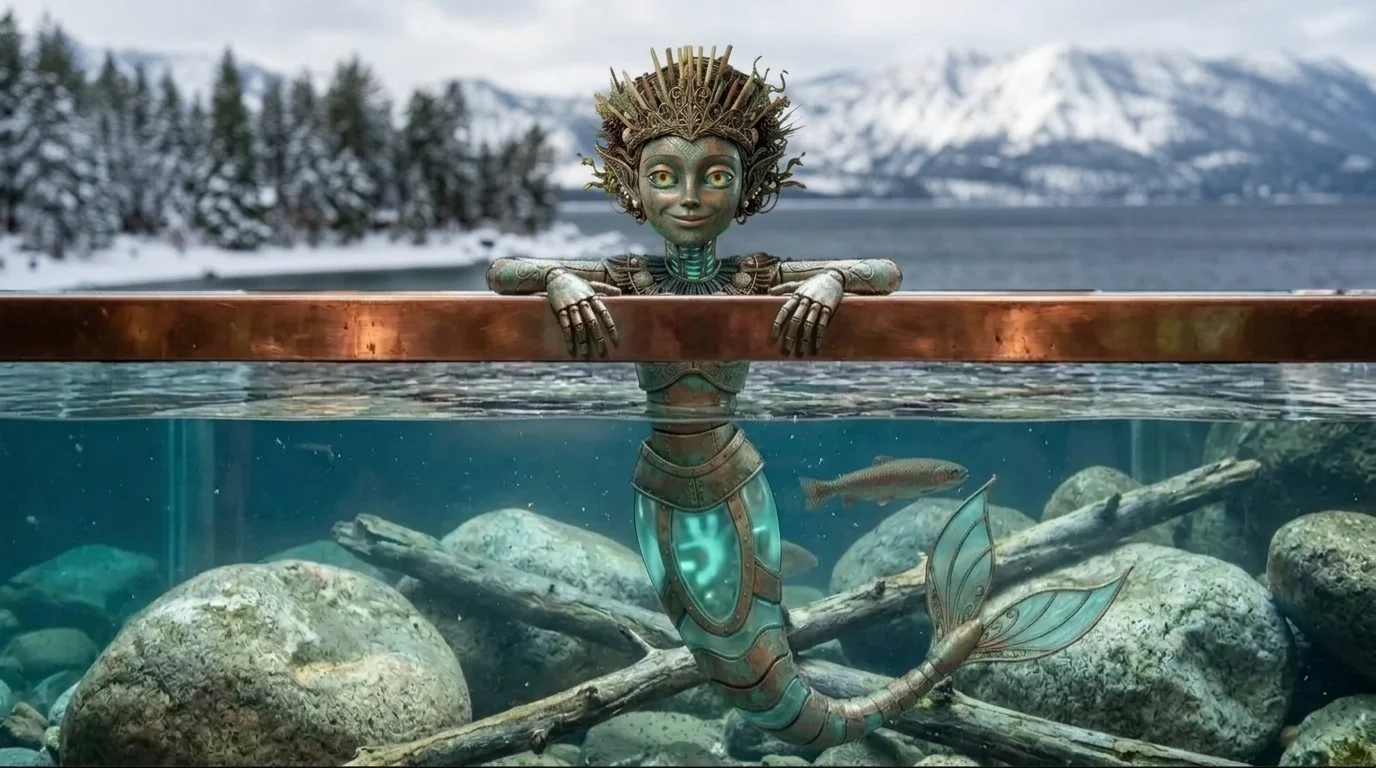
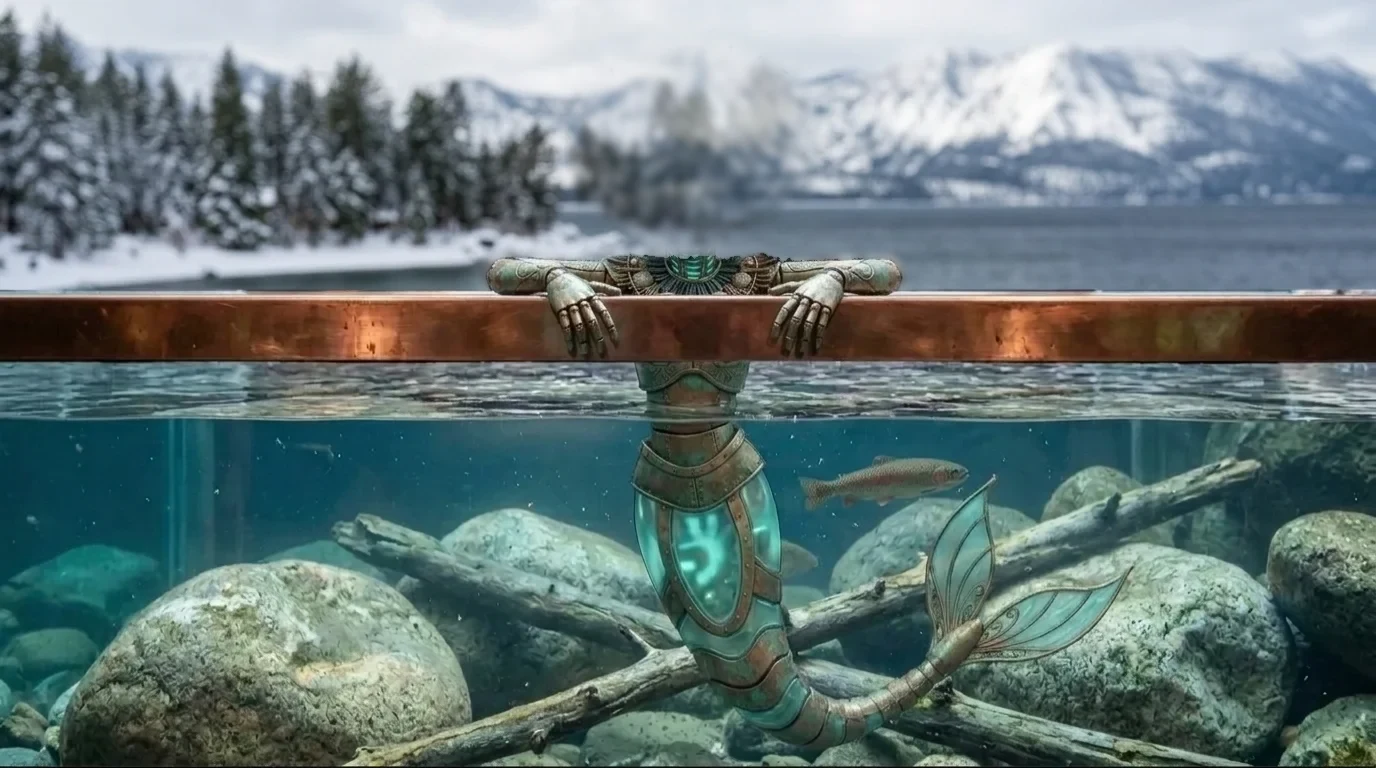
A.L.T.A.'s tank scenes: no copy of her left behind when she dives; her empty template and Christian's prompt (#373)
Christian, Oct 14: when she dives, her head stays on the picture above the water. Her first tank template
had her in it, so 21 scenes made from it did too; her head and shoulders are drawn over the scene only while
she rests.

- Her head taken out of those 21 scenes (the scene mirrored in from both sides, feathered and softened): a
  stopgap until each is remade. time-machine-tank and workshop-with-robots are Christian's clean renders.
- Her tank template is now her empty tank (?v=2 where the Studio links it).
- The prompt, in Christian's layout: the scene on a line of its own, '[ INSERT SCENE ]' when there's none;
  framing in pixels for her 1376 x 768 frame (what matters above the ledge, a calm middle behind her head).
  The same in characters.json (the gap prompts) and KIT.md.
- Bring in a scene shows her resting in front of it and the scene as she dives, and turns away a picture
  with her painted in (her head, where her overlay has it, against the render).

Claude-Session: https://claude.ai/code/session_01A6Riaik2o3R51Wm73uZWWr

Changed region(s): [[0.4062, 0.0625, 0.5938, 0.3438], [0.625, 0.3125, 0.6562, 0.3438]]

diff --git a/studio/assets/studio.js b/studio/assets/studio.js
@@ -628,8 +628,8 @@
         field('The place', '<textarea id="ntScene" rows="2" placeholder="e.g. ' + esc(TANK_SCENES['lake-tahoe']) + '"></textarea>', 'Picking a category fills in a suggestion') +
         field('How you\'ll make it', '<select id="ntWay"><option value="edit">Edit her template (keeps the framing)</option><option value="new">A new picture from the prompt</option></select>') +
         field('Image prompt', '<textarea id="ntPrompt" rows="6" readonly></textarea>') + '<div class="row"><button type="button" id="ntCopy">Copy the image prompt</button></div>' +
-        '<div class="ga-tpl"><img alt="Her tank template" src="/assets/alta/kit/tank-template.jpg"><span><b>Her tank template</b><br><span class="muted">16:9, 1376 x 768. The grey is the place; she and everything below the ledge stay.</span><br>' +
-          '<button type="button" id="ntTplCopy">Copy the image</button> <a href="/assets/alta/kit/tank-template.jpg" download>Download</a> · <a href="/assets/alta/kit/tank-backdrop-guide.jpg" target="_blank" rel="noopener">Layout guide</a></span></div>' +
+        '<div class="ga-tpl"><img alt="Her tank template" src="/assets/alta/kit/tank-template.jpg?v=2"><span><b>Her tank template</b><br><span class="muted">16:9, 1376 x 768. Her empty tank: the grey is the place; the ledge and everything below it stay.</span><br>' +
+          '<button type="button" id="ntTplCopy">Copy the image</button> <a href="/assets/alta/kit/tank-template.jpg?v=2" download>Download</a> · <a href="/assets/alta/kit/tank-backdrop-guide.jpg" target="_blank" rel="noopener">Layout guide</a></span></div>' +
         '<label class="drop ga-drop" id="ntDrop"><input type="file" id="ntFile" accept="image/png,image/jpeg,image/webp" hidden><b>Bring the render here</b> <span class="muted">or drop it here: you\'ll see her in front of it</span></label><div id="ntOut"></div>' +
         '<div class="row"><button type="button" class="primary" id="ntAdd" disabled>Add the scene</button></div>';
       [['data-cbc', CATBCP, bch], ['data-ctc', CATTCP, tch]].forEach(function (k) {
@@ -720,10 +720,10 @@
       $('#ntCat').onchange = function () { var c = this.value, sc = TANK_SCENES[c] || SCENES[c]; if (!ntScene.value.trim() && sc) ntScene.value = sc; if (!$('#ntName').value.trim() && c) $('#ntName').value = c + '-tank'; ntUpd(); };
       ntScene.oninput = ntUpd; $('#ntWay').onchange = ntUpd; ntUpd();
       $('#ntCopy').onclick = function () { navigator.clipboard.writeText(ntPrompt.value).then(function () { toast('Image prompt copied.'); }); };
-      $('#ntTplCopy').onclick = function () { GALook.copyImage('/assets/alta/kit/tank-template.jpg').then(function () { toast('Her tank template is on the clipboard.'); }, function (e) { toast(e.message, true); }); };
+      $('#ntTplCopy').onclick = function () { GALook.copyImage('/assets/alta/kit/tank-template.jpg?v=2').then(function () { toast('Her tank template is on the clipboard.'); }, function (e) { toast(e.message, true); }); };
       var takeTank = function (f) {
         if (!f) return; $('#ntOut').innerHTML = '<p class="muted">Working…</p>';
-        tankImage(f).then(function (res) { CATNEWTANK = res; var o = $('#ntOut'); o.innerHTML = res.warn ? '<p class="warn">' + esc(res.warn) + '</p>' : ''; res.preview.className = 'ga-prev'; o.appendChild(res.preview); $('#ntAdd').disabled = false; })
+        tankImage(f).then(function (res) { CATNEWTANK = res; $('#ntAdd').disabled = !tankShow($('#ntOut'), res); })
           .catch(function (e) { $('#ntOut').innerHTML = ''; toast(e.message, true); });
       };
       $('#ntFile').onchange = function () { takeTank(this.files[0]); this.value = ''; };
@@ -783,7 +783,7 @@
   // a character's prompt for a piece: a look (by its looks.json entry) or a tank scene (by its place)
   function charPrompt(ch, kind, l, place) {
     var P = ch[kind] || {};
-    if (kind === 'tank') return fillIn(P.prompt, { place: place || '[THE PLACE]' });
+    if (kind === 'tank') return fillIn(P.prompt, { place: place || '[ INSERT SCENE ]' });
     if (P.has === 'file') return fillIn(P.prompt, { look: l.gaLook || l.about || l.name.replace(/-/g, ' '), a: l.gaA || '[the part that takes the first colour]', b: l.gaB || '[the part that takes the second colour]' });
     var i = (P.ideas || {})[l.name] || ['[a hat for ' + l.name.replace(/-/g, ' ') + ']', '[a small charm]', 'hat', 'charm'];
     return fillIn(P.prompt, { hat: i[0], charm: i[1], hatShort: i[2], charmShort: i[3] });
@@ -881,7 +881,7 @@
             '<div class="row"><label class="f"><span>Which scene</span><select id="alWhich"><option value="">A new scene</option>' + (J.tankBackdrops || []).map(function (b) { return '<option value="' + esc(b.name) + '">' + esc(b.name.replace(/-/g, ' ')) + ' (replace hers)</option>'; }).join('') + '</select></label></div>' +
             '<div class="grid2">' + field('Name', '<input id="alName" placeholder="e.g. boathouse-night" maxlength="40">', 'Lowercase, with dashes') + field('Give it to', '<select id="alCat"><option value="">No category yet</option>' + Object.keys(cats).sort().map(function (c) { return '<option value="' + esc(c) + '">' + esc(catName(c)) + '</option>'; }).join('') + '</select>') + '</div>' +
             field('The place', '<textarea id="alScene" rows="2" placeholder="e.g. ' + esc(TANK_SCENES['lake-tahoe']) + '"></textarea>', 'Picking a category fills in a suggestion') +
-            '<div class="row"><select id="alWay"><option value="edit">Edit her template (keeps the framing)</option><option value="new">A new picture from the prompt</option></select><button type="button" id="alPr">Copy the prompt</button><button type="button" id="alTpl">Copy her tank template</button><a href="/assets/alta/kit/tank-template.jpg" download>Download it</a></div>' +
+            '<div class="row"><select id="alWay"><option value="edit">Edit her template (keeps the framing)</option><option value="new">A new picture from the prompt</option></select><button type="button" id="alPr">Copy the prompt</button><button type="button" id="alTpl">Copy her tank template</button><a href="/assets/alta/kit/tank-template.jpg?v=2" download>Download it</a></div>' +
             '<label class="drop ga-drop" id="alDrop"><input type="file" id="alFile" accept="image/png,image/jpeg,image/webp" hidden><b>Bring the render here</b> <span class="muted">or drop it here: you\'ll see her in front of it</span></label><div id="alOut"></div>' +
             '<div class="row"><button type="button" class="primary" id="alSave" disabled>Add the scene</button></div></div>';
       // what the target gives each character
@@ -1026,10 +1026,10 @@
       $('#alWhich').onchange = function () { var b2 = (J.tankBackdrops || []).filter(function (x) { return x.name === this.value; }, this)[0]; if (b2) { $('#alName').value = b2.name; alScene.value = b2.scene || ''; } else { $('#alName').value = ''; } };
       $('#alCat').onchange = function () { var c = this.value, sc = TANK_SCENES[c] || SCENES[c]; if (!alScene.value.trim() && sc) alScene.value = sc; if (!$('#alName').value.trim() && c) $('#alName').value = c + '-tank'; };
       $('#alPr').onclick = function () { navigator.clipboard.writeText(alPrompt()).then(function () { toast('Her prompt is copied.'); }); };
-      $('#alTpl').onclick = function () { GALook.copyImage('/assets/alta/kit/tank-template.jpg').then(function () { toast('Her tank template is on the clipboard.'); }, function (e) { toast(e.message, true); }); };
+      $('#alTpl').onclick = function () { GALook.copyImage('/assets/alta/kit/tank-template.jpg?v=2').then(function () { toast('Her tank template is on the clipboard.'); }, function (e) { toast(e.message, true); }); };
       var alTake = function (f) {
         if (!f) return; $('#alOut').innerHTML = '<p class="muted">Working…</p>'; $('#alSave').disabled = true;
-        tankImage(f).then(function (res) { AL.rec = res; var o = $('#alOut'); o.innerHTML = res.warn ? '<p class="warn">' + esc(res.warn) + '</p>' : ''; res.preview.className = 'ga-prev'; o.appendChild(res.preview); $('#alSave').disabled = false; })
+        tankImage(f).then(function (res) { AL.rec = res; $('#alSave').disabled = !tankShow($('#alOut'), res); })
           .catch(function (e) { $('#alOut').innerHTML = ''; toast(e.message, true); });
       };
       $('#alFile').onchange = function () { alTake(this.files[0]); this.value = ''; };
@@ -1702,17 +1702,29 @@
     science: 'a bright science classroom with a long chalkboard and shelves of equipment',
     showcase: 'a gallery with soft spotlights on the far wall'
   };
+  // Christian's layout (Oct 14): the place on a line of its own between the two halves, so it's the one part to change
   function tankPrompt(place, way) {
-    place = place || '[THE PLACE]';
-    var tail = ' No people, no animals, no text, signs, logos or brands. Colours that sit well beside a teal-green tank and weathered copper.';
-    if (way === 'new') return 'A softly blurred photograph of ' + place + ', seen from about table height, as if from behind a large aquarium standing in the room. Wide 16:9. The camera looks straight ahead, level. The far wall, the horizon or the treeline sits about a quarter of the way down the frame, and everything that matters is in the top third; the lower part is plain floor or ground. Shallow depth of field: the whole scene gently out of focus, like the background of a portrait, with soft, natural light.' + tail;
-    return 'Same image, exactly as it is: the mermaid, her copper ledge, the water and everything below the ledge stay exactly the same. Replace only the flat grey wall above the copper ledge with a softly blurred photograph of ' + place + ', seen from about table height, as if from behind a large aquarium standing there. The camera looks straight ahead, level; the far wall, the horizon or the treeline sits about halfway between the top of the picture and the ledge. Shallow depth of field: the whole place gently out of focus, like the background of a portrait, with soft, natural light. Nothing new in front of her or on the ledge.' + tail;
+    place = place || '[ INSERT SCENE ]';
+    var look = 'Shot like a cinematic film still from about table height, straight ahead and level, as if from behind a large aquarium standing there. Very shallow depth of field: the whole place softly out of focus, with gentle bokeh and nothing sharp. Warm, soft, late-afternoon light; calm, tidy and uncluttered. The far wall, the horizon or the treeline sits about halfway between the top of the picture and the ledge.';
+    var tail = ' Empty of people and animals. No writing, signs, logos or brands anywhere. Natural colours, nothing neon, that sit well beside a teal-green tank and weathered copper.';
+    if (way === 'new') return 'A softly blurred photograph, wide 16:9, of\n\n' + place + '\n\n' + look.replace(' The far wall, the horizon or the treeline sits about halfway between the top of the picture and the ledge.', ' The far wall, the horizon or the treeline sits about a quarter of the way down the frame; everything that matters is in the top third, and the lower part is plain floor or ground. Keep the middle of that top third calm and evenly lit, with no bright lights or strong shapes (her head goes there).') + tail;
+    return 'Same image, exactly as it is: the empty tank, its copper ledge, the water and everything below the ledge stay exactly the same. Replace only the flat grey wall above the copper ledge with a softly blurred photograph of\n\n' + place + '\n\n' + look +
+      ' Composition, in pixels on this 1376 x 768 image: everything that matters sits above the ledge, from y 0 to y 290. Keep the middle, from x 560 to x 820 and y 40 to y 290, calm, evenly lit and slightly darker, with no bright lights or strong shapes (her head goes there). Nothing added in the tank, on the ledge or in front of it.' + tail;
+  }
+  // a tank scene's preview: her resting in front of it, and the same scene as she dives (her head and shoulders gone, so
+  // only the scene shows above the ledge). A scene with her painted in is refused: her head would stay behind when she
+  // dives (Christian, Oct 14). Returns whether it can be added.
+  function tankShow(o, res) {
+    o.innerHTML = (res.her ? '<p class="warn">She\'s painted into this picture: when she dives, that copy of her head would stay behind. Make it from her empty tank template (Copy her tank template), or a new picture.</p>' : '') +
+      (res.warn ? '<p class="warn">' + esc(res.warn) + '</p>' : '') + '<p class="muted">Resting, and as she dives:</p>';
+    res.preview.className = 'ga-prev'; o.appendChild(res.preview); res.dive.className = 'ga-prev'; o.appendChild(res.dive);
+    return !res.her;
   }
   // a render cropped to her frame (1376 x 768) as webp, and a preview with her and her tank in front of it
   function tankImage(file) {
     var url = URL.createObjectURL(file), W = 1376, H = 768;
     var load = function (src) { return new Promise(function (ok, no) { var i = new Image(); i.onload = function () { ok(i); }; i.onerror = function () { no(new Error('That image didn\'t open.')); }; i.src = src; }); };
-    return Promise.all([load(url), load('/assets/alta/kit/tank-overlay.webp')]).then(function (r) {
+    return Promise.all([load(url), load('/assets/alta/kit/tank-overlay.webp'), load('/assets/alta/parts/rest-cut.webp')]).then(function (r) {
       URL.revokeObjectURL(url);
       var src = r[0], c = document.createElement('canvas'); c.width = W; c.height = H;
       var g = c.getContext('2d'), sw = src.naturalWidth, sh = src.naturalHeight, k = Math.max(W / sw, H / sh);
@@ -1720,10 +1732,18 @@
       var warn = Math.abs(sw / sh - W / H) > 0.15 ? 'It isn\'t 16:9 like her template, so it was cropped to fit.' : '';
       var pv = document.createElement('canvas'); pv.width = 688; pv.height = 384;
       var pg = pv.getContext('2d'); pg.drawImage(c, 0, 0, 688, 384); pg.drawImage(r[1], 0, 0, 688, 384);
+      var dv = document.createElement('canvas'); dv.width = 688; dv.height = 384;
+      var dg = dv.getContext('2d'); dg.drawImage(c, 0, 0, 688, 384); dg.drawImage(r[2], 0, 0, 688, 384);
+      // is she painted in? her head, where the overlay has it, against the render there (the old template had her in it)
+      var oc = document.createElement('canvas'); oc.width = W; oc.height = 250;
+      var og = oc.getContext('2d'); og.drawImage(r[1], 0, 0);
+      var od = og.getImageData(0, 0, W, 250).data, sd = g.getImageData(0, 0, W, 250).data, sum = 0, n = 0;
+      for (var q = 0; q < od.length; q += 4) if (od[q + 3] > 128) { sum += Math.abs(od[q] - sd[q]) + Math.abs(od[q + 1] - sd[q + 1]) + Math.abs(od[q + 2] - sd[q + 2]); n++; }
+      var her = n > 0 && sum / n / 3 < 30;
       return new Promise(function (ok) { c.toBlob(ok, 'image/webp', 0.85); }).then(function (b) {
         if (b && b.type === 'image/webp') return b;
         return new Promise(function (ok) { c.toBlob(ok, 'image/jpeg', 0.86); });
-      }).then(function (blob) { return { blob: blob, ext: blob.type === 'image/webp' ? 'webp' : 'jpg', preview: pv, warn: warn, colors: imageColors(c, 0.38) }; });
+      }).then(function (blob) { return { blob: blob, ext: blob.type === 'image/webp' ? 'webp' : 'jpg', preview: pv, dive: dv, her: her, warn: warn, colors: imageColors(c, 0.38) }; });
     });
   }
   var SCENES = { 'case-study': 'an old library with tall wooden bookshelves, brass reading lamps and a long study table',

diff --git a/studio/index.php b/studio/index.php
@@ -164,7 +164,7 @@ $alt = 'The Studio by ' . $tod . ': a brass STUDIO panel with its day/night dial
 <script src="assets/look.js?v=<?= STUDIO_VERSION ?>-7"></script>
 <script src="assets/marleycut.js?v=<?= STUDIO_VERSION ?>-2"></script>
 <script src="../js/motion.js?v=1"></script>
-<script src="assets/studio.js?v=<?= STUDIO_VERSION ?>-83"></script>
+<script src="assets/studio.js?v=<?= STUDIO_VERSION ?>-84"></script>
 <?php endif; ?>
 <script src="../js/audio-rules.js?v=1"></script>
 <script src="table/table.js?v=25"></script>

diff --git a/assets/alta/KIT.md b/assets/alta/KIT.md
@@ -545,24 +545,37 @@ behind where her head is (the middle of the band).
 
 ### Her template, the Studio and borrowing (Oct 13)
 
-**Her template** (`assets/alta/kit/tank-template.jpg`, 1376 x 768): her tank exactly as the site draws it, with the
-place she'll be a flat grey above the copper ledge. The easiest way to a scene that fits is to **edit the template**:
-the framing stays right, and anything the tool does to her or the tank doesn't matter, because only the strip above the
-ledge is used and she's drawn over it. The edit prompt:
+**Her template** (`assets/alta/kit/tank-template.jpg`, 1376 x 768): her tank, **empty**, exactly as the site frames
+it, with the place a flat grey above the copper ledge. The easiest way to a scene that fits is to **edit the template**:
+the framing stays right, and only the strip above the ledge is used.
 
-> Same image, exactly as it is: the mermaid, her copper ledge, the water and everything below the ledge stay exactly
-> the same. Replace only the flat grey wall above the copper ledge with a softly blurred photograph of [THE PLACE],
-> seen from about table height, as if from behind a large aquarium standing there. The camera looks straight ahead,
-> level; the far wall, the horizon or the treeline sits about halfway between the top of the picture and the ledge.
-> Shallow depth of field: the whole place gently out of focus, like the background of a portrait, with soft, natural
-> light. Nothing new in front of her or on the ledge. No people, no animals, no text, signs, logos or brands. Colours
-> that sit well beside a teal-green tank and weathered copper.
+**Never paint her into a scene** (Oct 14). Her head and shoulders above the ledge are drawn over the scene only while she
+rests; when she dives, rises or glides they go, and the scene shows through. A scene with her painted in leaves a copy of
+her head behind. (The first template had her in it, and 21 scenes made from it did: on Oct 14 her head was taken out of
+them by mirroring the scene in from both sides, a stopgap until each is remade from the empty template.) The Studio turns
+away a picture with her in it.
+
+The edit prompt (Christian's layout: the scene on a line of its own, so it's the one part to change):
+
+> Same image, exactly as it is: the empty tank, its copper ledge, the water and everything below the ledge stay exactly
+> the same. Replace only the flat grey wall above the copper ledge with a softly blurred photograph of
+>
+> [ INSERT SCENE ]
+>
+> Shot like a cinematic film still from about table height, straight ahead and level, as if from behind a large
+> aquarium standing there. Very shallow depth of field: the whole place softly out of focus, with gentle bokeh and
+> nothing sharp. Warm, soft, late-afternoon light; calm, tidy and uncluttered. The far wall, the horizon or the
+> treeline sits about halfway between the top of the picture and the ledge. Composition, in pixels on this 1376 x 768
+> image: everything that matters sits above the ledge, from y 0 to y 290. Keep the middle, from x 560 to x 820 and
+> y 40 to y 290, calm, evenly lit and slightly darker, with no bright lights or strong shapes (her head goes there).
+> Nothing added in the tank, on the ledge or in front of it. Empty of people and animals. No writing, signs, logos or
+> brands anywhere. Natural colours, nothing neon, that sit well beside a teal-green tank and weathered copper.
 
 The prompt above (a new picture) works too; then the horizon goes about a quarter of the way down.
 
 **In the Studio:** Categories, "A.L.T.A.'s tank scenes": name it, pick a category (it fills in a place), choose edit or
-new, copy the prompt and the template, and drop the render back: the preview shows her and her tank in front of it
-(`assets/alta/kit/tank-overlay.webp`, her tank with the place cut out). Add the scene, and pick it for a Note in its
+new, copy the prompt and the template, and drop the render back: the previews show her resting in front of it
+(`assets/alta/kit/tank-overlay.webp`, her tank with the place cut out) and the scene as she dives (`rest-cut.webp`). Add the scene, and pick it for a Note in its
 Episode panel or for a whole category in its column.
 
 **Borrowing:** without a scene of her own, she borrows the Note's backdrop (the one GlazyArray and Robot Marley show)
